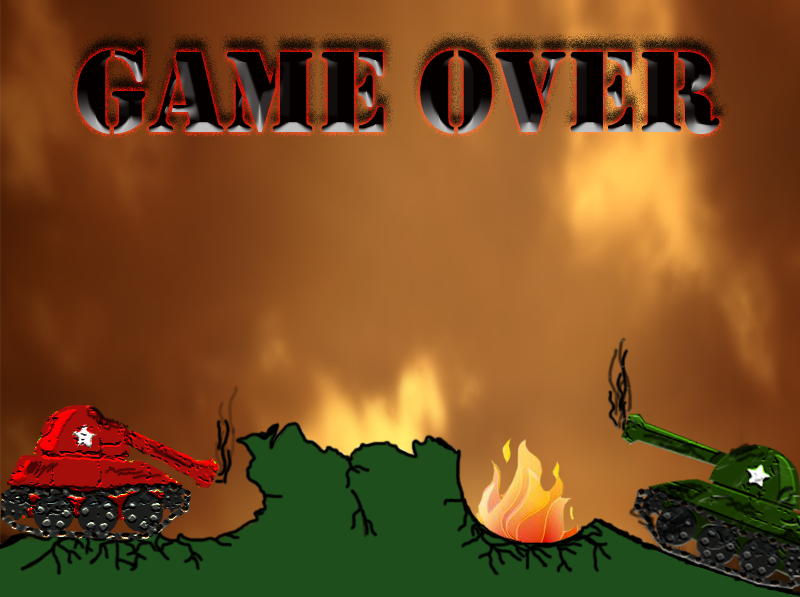
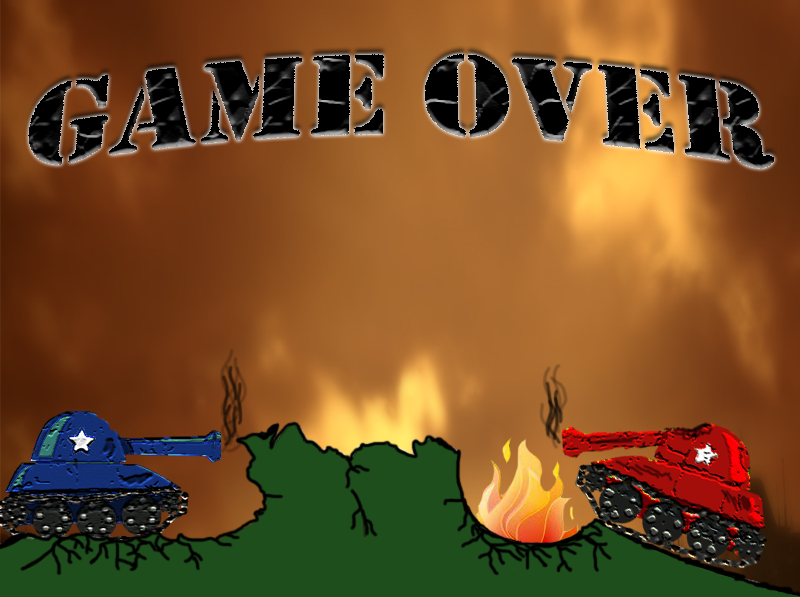
Fixed some things and Also changed the menus

Changed region(s): [[0.0312, 0.0603, 0.9688, 0.3015], [0.6562, 0.5729, 1.0, 0.995], [0.0, 0.603, 0.3125, 0.9045]]

diff --git a/TinyTank/src/com/tiny/tank/Select_Weapons_Menu.java b/TinyTank/src/com/tiny/tank/Select_Weapons_Menu.java
@@ -52,7 +52,7 @@ public class Select_Weapons_Menu extends BasicGameState {
 	}
 		
 	public void loadImages() throws SlickException{
-		background = new Image("res/bg.jpg");
+		background = new Image("res/bg.png");
 		title = new Image("res/Weapon_Select_ title.png");
 		select = new Image("res/selectweapon.png");
 		button_play= new Button("res/play_button.png",500,520);

diff --git a/TinyTank/src/com/tiny/tank/Tank.java b/TinyTank/src/com/tiny/tank/Tank.java
@@ -277,7 +277,7 @@ public class Tank {
 					// facing right
 					if (direction == 1)
 						{
-						if(BarrelImage.getRotation() < 30); // set lower limit
+						if(BarrelImage.getRotation() < 30) // set lower limit
 							BarrelImage.rotate(1);
 						}
 				}
